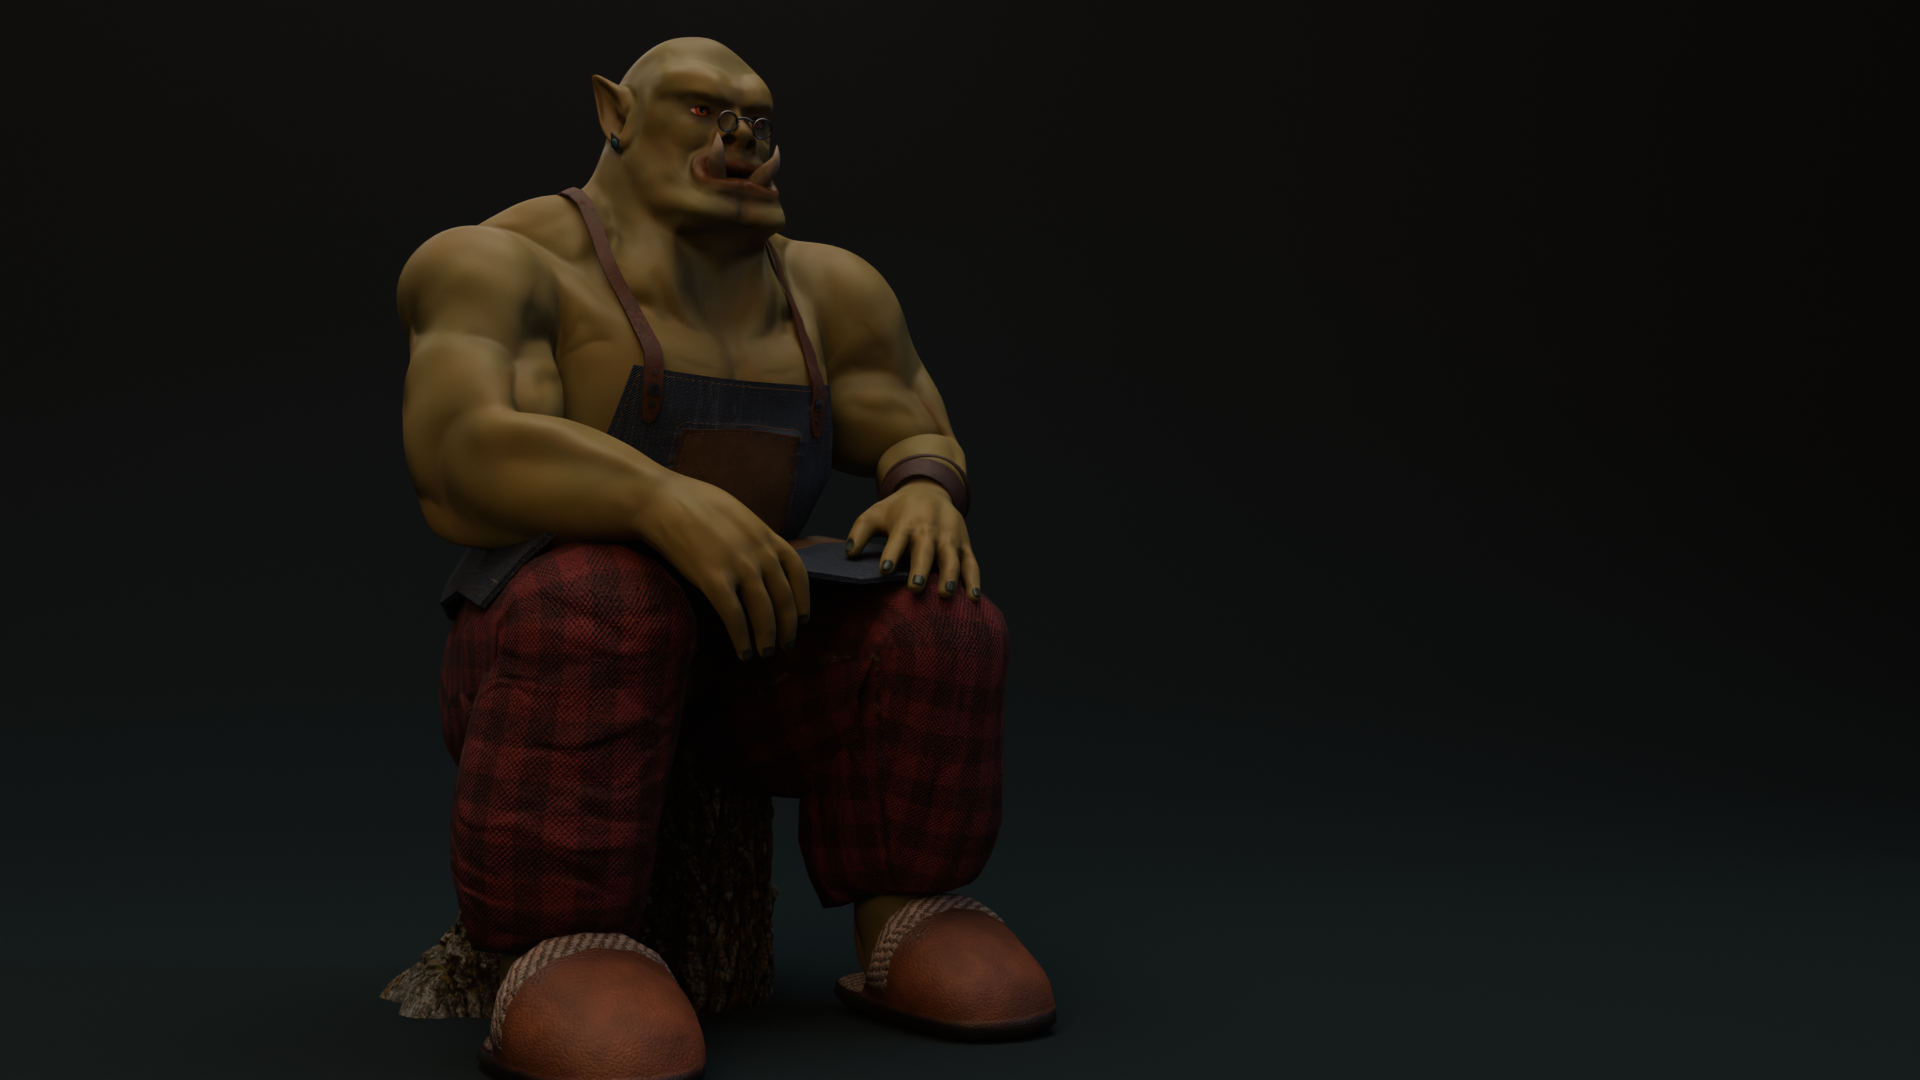
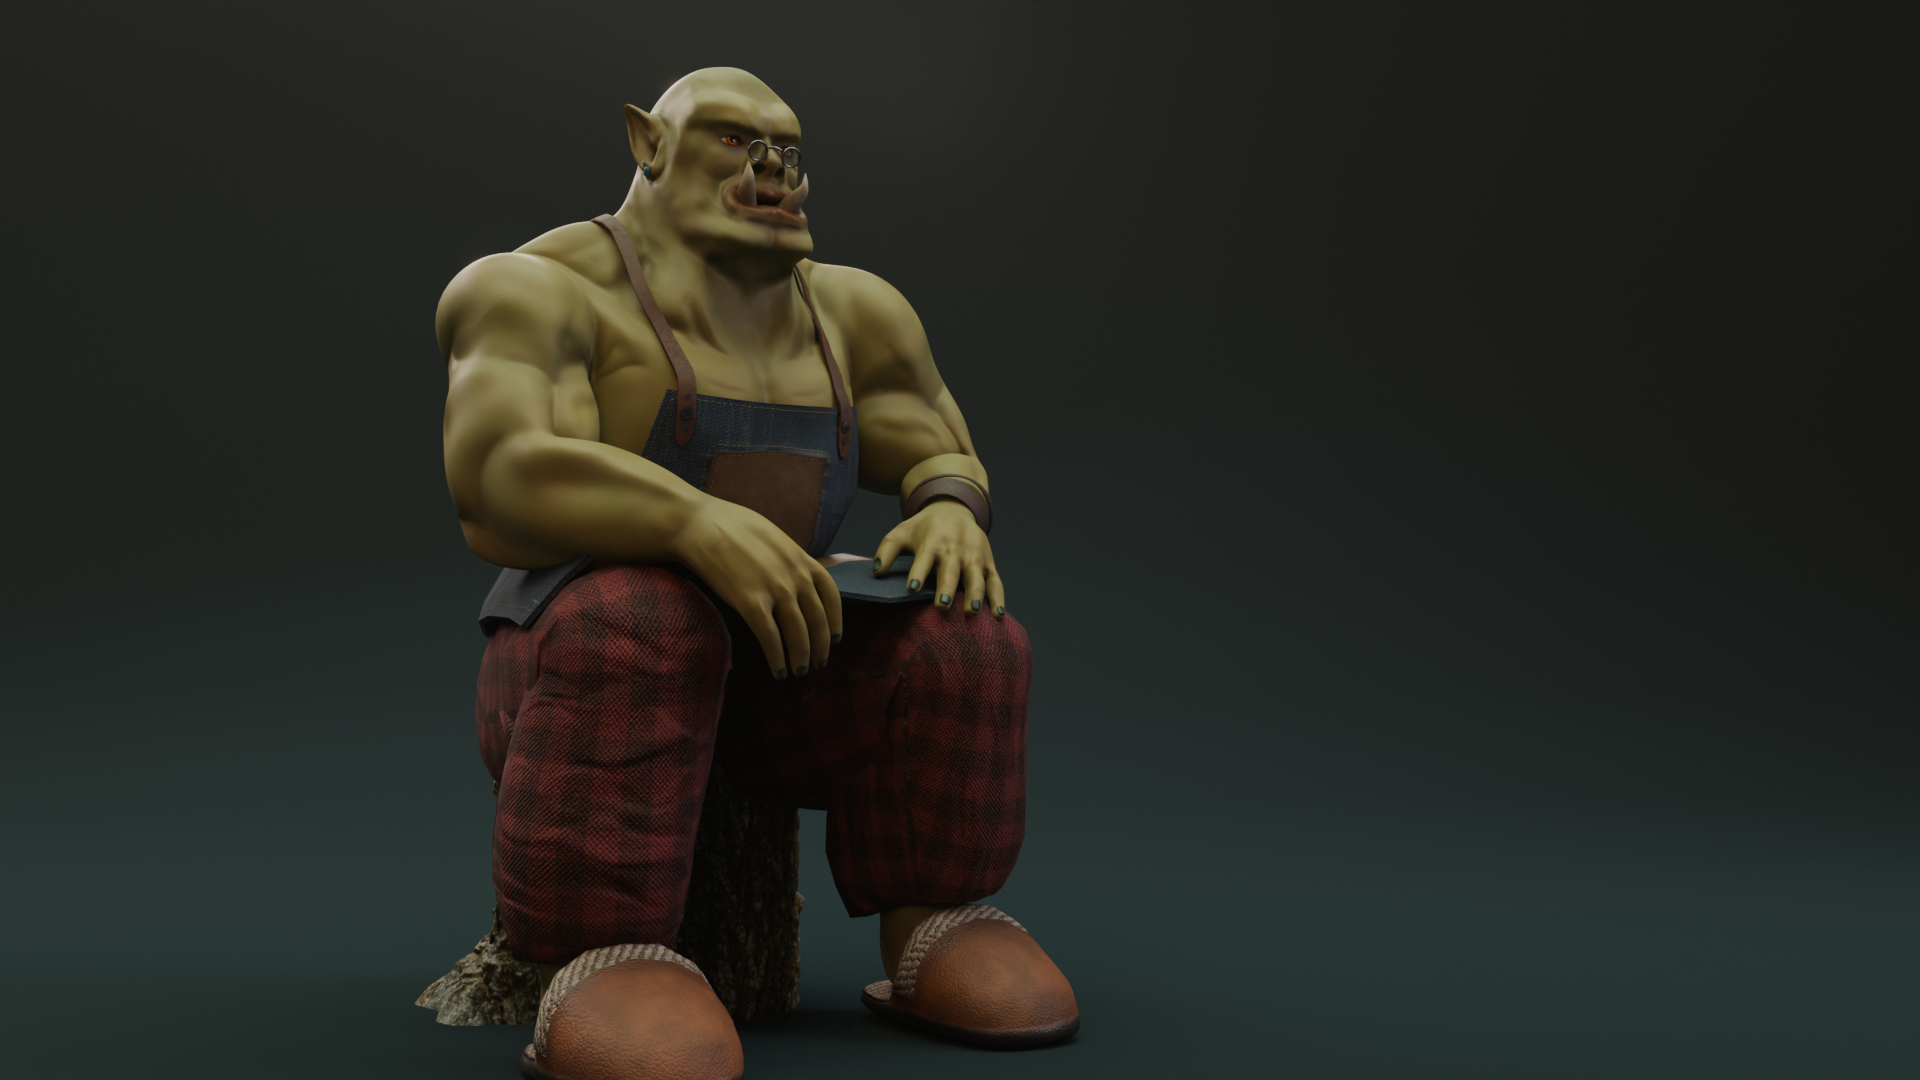
wow! Look at that

diff --git a/projects.js b/projects.js
@@ -17,8 +17,80 @@ export const projects = [
                         caption: "Everything here was modeled by hand. What a time to relax."
                     }
                 ]
+            }, 
+            {
+                layout: "single",
+                items: [
+                    {
+                        type:"image",
+                        src: "images/orcCloseup.png",
+                        alt: "Orc Closeup",
+                        caption: "Wow, look at those details."
+                    }
+                ]
+            }, 
+            {
+                layout: "single",
+                items: [
+                    {
+                        type:"image",
+                        src: "images/orcFromBelow.png",
+                        alt: "Orc Below",
+                        caption: "He's Radiant"
+                    }
+                ]
+            },
+            {
+                layout: "single",
+                items: [
+                    {
+                        type:"image",
+                        src: "images/orcFromFrontA.png",
+                        alt: "Orc Closeup",
+                        caption: "Wow, look at those details."
+                    }
+                ]
+            },
+            {
+                layout: "single",
+                items: [
+                    {
+                        type:"image",
+                        src: "images/orcFromBackA.png",
+                        alt: "Orc Closeup",
+                        caption: "Wow, look at those details."
+                    },
+                ]
             }
         ]
+    },
+    {
+        id: "DaedalusTower",
+        title: "Daedalus' Tower",
+        description: "Demo of my first full indie game, developed for a senior capstone project.",
+        image: "images/DaedThumbnail.png",
+        tags: ["Game Design", "3D Modeling", "Environment"],
+
+        media: [
+            {
+                layout: "single",
+                items: [
+                ]
+            }
+        ],
+
+        embed: [
+            {
+            src: "https://itch.io/embed-upload/17245792?color=333333",
+            }
+        ]
+    },
+    {
+        id: "CarlTemp",
+        title: "Carl the Cupcake",
+        description: "First experimentation with Character Design",
+        image: "images/JumpingCarl.png",
+        tags: ["3D Modeling", "Character"],
     },
     {
         id: "Porygon",
@@ -68,19 +140,5 @@ export const projects = [
                 ]
             },
         ]
-    },
-    {
-        id: "DaedalusTower",
-        title: "Daedalus' Tower",
-        description: "Demo of my first full indie game, developed for a senior capstone project.",
-        image: "images/DaedThumbnail.png",
-        tags: ["Game Design", "3D Modeling", "Environment"],
-    },
-    {
-        id: "CarlTemp",
-        title: "Carl the Cupcake",
-        description: "First experimentation with Character Design",
-        image: "images/JumpingCarl.png",
-        tags: ["3D Modeling", "Character"],
     },
 ]

diff --git a/project.js b/project.js
@@ -20,8 +20,14 @@ if (!project) {
             </a>
         </div>
     </header>
+
     <section class="project-hero">
-        <img class="project-hero-image" src="${project.image}" alt="${project.title}" />
+        <img 
+            class="project-hero-image" 
+            src="${project.image}" 
+            alt="${project.title}" 
+        />
+
         <div class="project-hero-overlay">
             <div class="project-hero-content">
                 <h1>${project.title}</h1>
@@ -29,6 +35,7 @@ if (!project) {
             </div>
         </div>
     </section>
+
     <section class="project-detail">
         <div class="project-media">
             ${project.media.map(group => {
@@ -49,9 +56,9 @@ if (!project) {
                             if (item.type === "video") {
                                 content = `
                                     <video 
-                                        muted 
-                                        autoplay 
-                                        controls 
+                                        muted
+                                        autoplay
+                                        controls
                                         loop
                                     >
                                         <source src="${item.src}" type="video/mp4">
@@ -62,13 +69,41 @@ if (!project) {
                             return `
                                 <figure class="project-media-item">
                                     ${content}
-                                    ${item.caption ? `<figcaption>${item.caption}</figcaption>` : ""}
+                                    ${
+                                        item.caption
+                                            ? `<figcaption>${item.caption}</figcaption>`
+                                            : ""
+                                    }
                                 </figure>
                             `
                         }).join("")}
                     </div>
                 `
             }).join("")}
+        </div>
     </section>
+
+    ${
+    project.embed
+        ? `
+        <section class="project-embed">
+            <p>
+            Demo of the game! Press the lower right button to make fullscreen for a premium gaming experience.
+            </p>
+            <iframe
+                frameborder="0"
+                src="https://itch.io/embed-upload/17245792?color=333333"
+                allowfullscreen=""
+                width="1280"
+                height="720"
+            >
+                <a href="https://daedalus-studio.itch.io/daedalus-tower">
+                    Play Daedalus' Tower on itch.io
+                </a>
+            </iframe>
+        </section>
+        `
+        : ""
+    }
     `
 }

diff --git a/styles.css b/styles.css
@@ -254,6 +254,13 @@ body {
     text-align: center;
 }
 
+.project-embed {
+    display: flex;
+    flex-direction: column;
+    margin: 0 auto;
+    align-items: center;
+}
+
 /* ↓ Large tablets / small desktops */
 @media (max-width: 1100px) {
   .project-gallery {